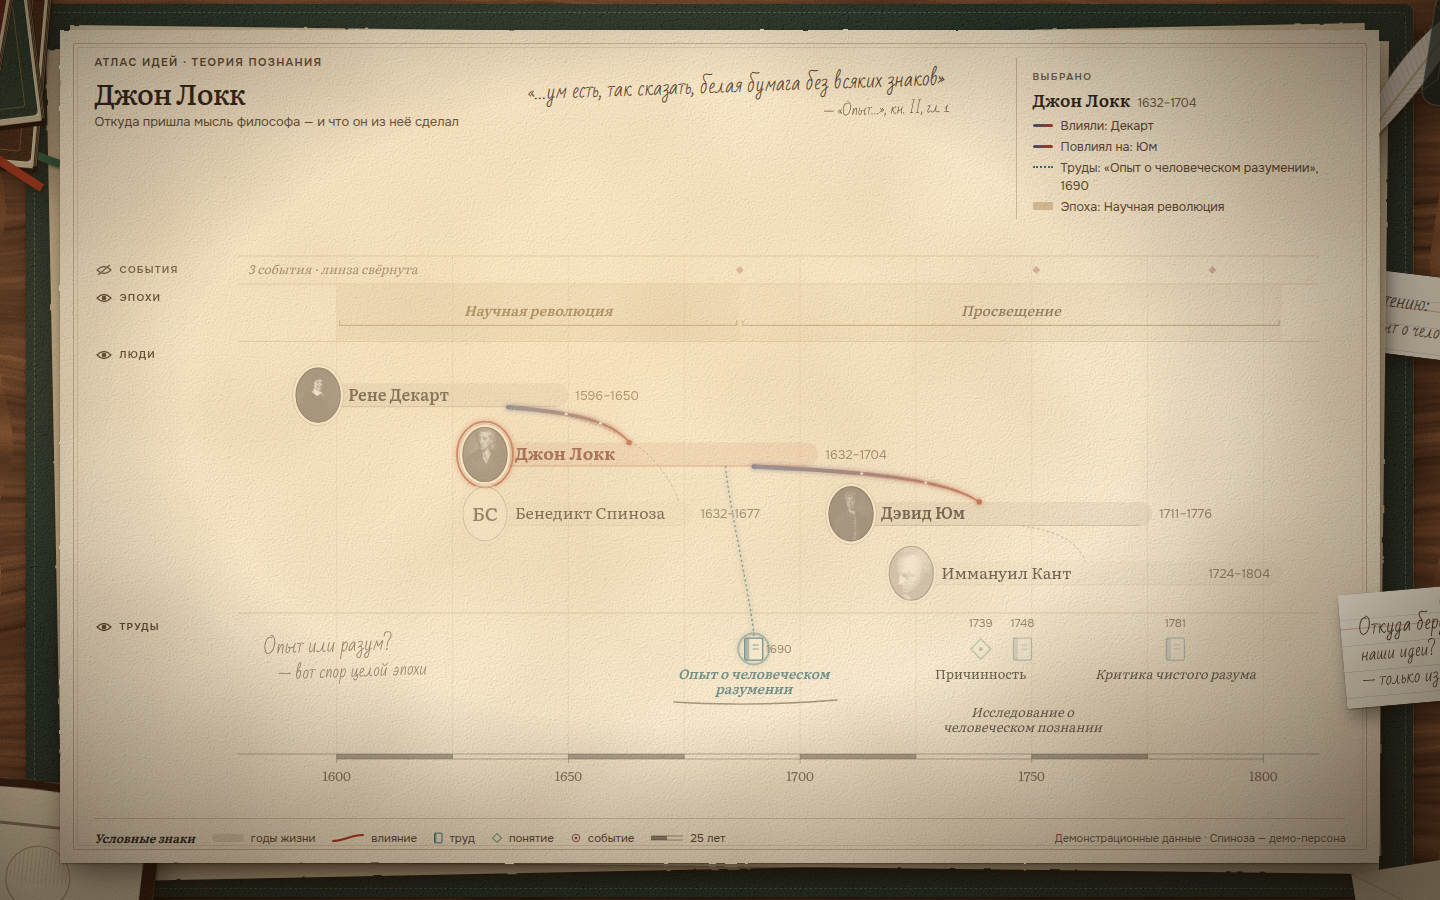
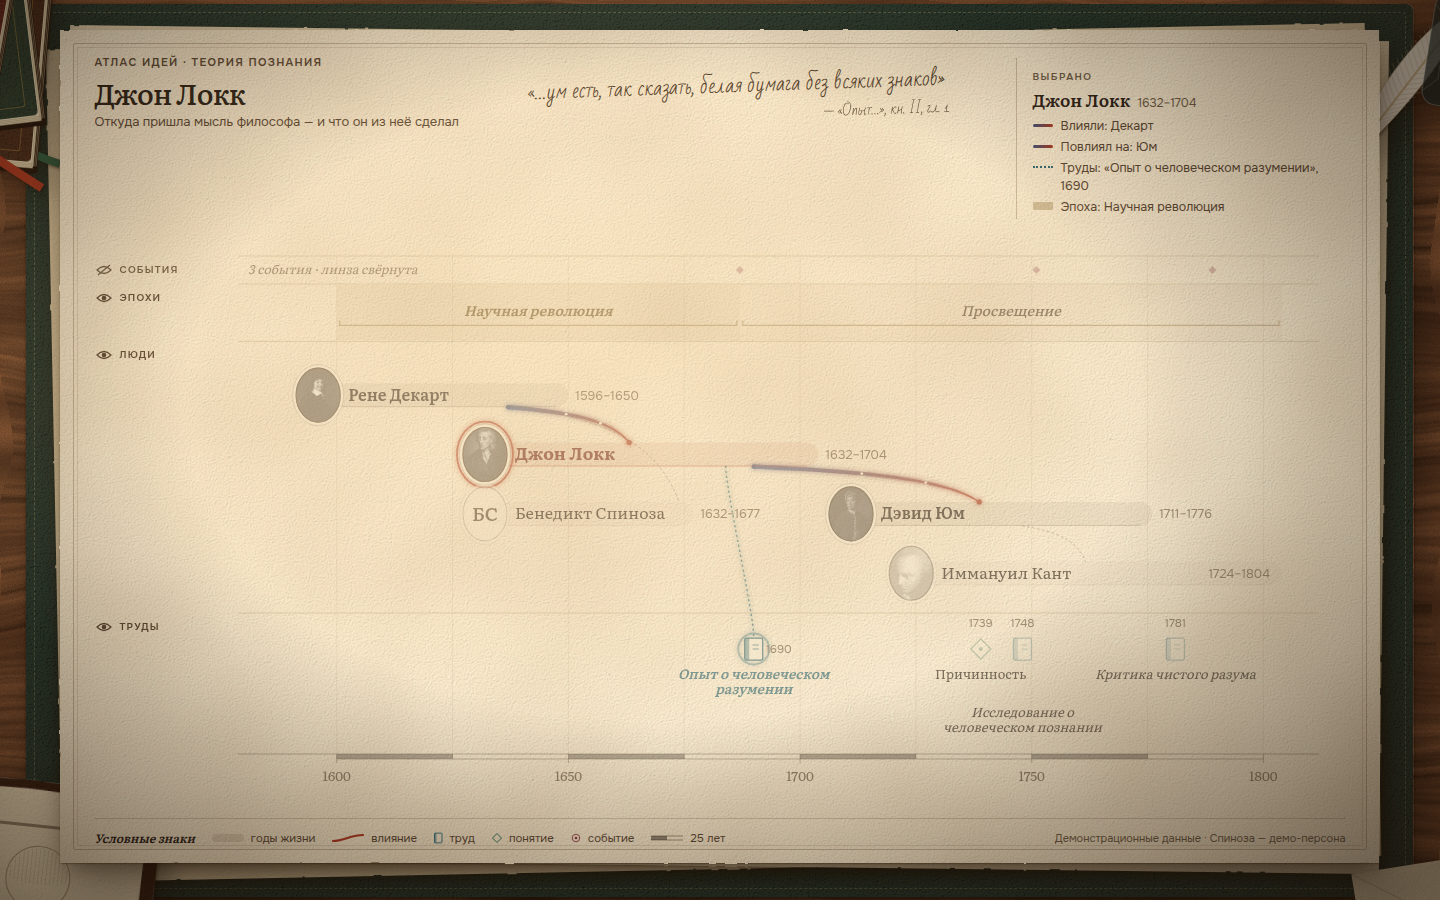
design(v3.1): убраны рукописные подписи с таймлайна
На графе только данные и их подписи; рукой — эпиграф в шапке и карточки на столе.

Changed region(s): [[0.9375, 0.6533, 1.0, 0.8089], [0.9375, 0.28, 1.0, 0.4044], [0.1875, 0.7156, 0.2812, 0.7467]]

diff --git a/docs/design/system/previews/graph-f02-lenses/desk-chart.js b/docs/design/system/previews/graph-f02-lenses/desk-chart.js
@@ -41,7 +41,7 @@
     {about:'hume',lines:['«Разум есть и должен быть','лишь рабом аффектов»'],cite:'«Трактат о человеческой природе»'},
     {about:'spinoza',lines:['«Порядок и связь идей те же,','что порядок и связь вещей»'],cite:'«Этика», ч. II, теор. 7'},
   ];
-  const theme=['Опыт или разум?','— вот спор целой эпохи'];  // тема листа, не про персону
+  const theme=['Опыт или разум?','— вот спор целой эпохи'];  // тема листа — только на карточке на столе, не на графе
   // карточки на столе: главный вопрос выбранного (редакторская выжимка, не цитата)
   const questions={
     descartes:['Что можно знать','несомненно?','— путь сомнения'],
@@ -196,7 +196,7 @@
     for(let y=1600;y<=1800;y+=25){const x=X(y),maj=y%50===0;L.axis.append(S('line',{x1:x,y1:ay,x2:x,y2:ay+(maj?9:5),stroke:'var(--graph-ink)','stroke-opacity':.55,'stroke-width':.8}));if(maj)L.axis.append(S('text',{x,y:ay+27,class:'axis-year'},y));}
 
     /* рукописные пометки: ищут свободное место у своего «якоря» */
-    placeNotes({R,bw,active});
+    placeNotes({R});
 
     renderGutter(bands,H);renderNote(R);renderDesk(R);
     window.deskLayout={bands,H,people:byId,mids,state,BODY,svgTop:top};
@@ -208,23 +208,11 @@
     if(!sel)return null;
     return notes.find(n=>n.about.endsWith('-'+sel))||notes.find(n=>n.about===sel)||notes.find(n=>n.about.startsWith(sel+'-'))||null;
   }
-  // Пометки на листе. Цитата выбранного — в постоянном месте на поле шапки: не зависит от плотности
-  // графа и не тянет стрелок через карту. Тема листа — в свободном месте страты трудов; места нет — не рисуется.
-  function placeNotes({R,bw,active}){
-    const L=svg.lastChild;
+  // На самом таймлайне рукописных пометок нет: карта только показывает данные.
+  // Цитата выбранного — эпиграф на поле шапки, вне графа.
+  function placeNotes({R}){
     const ep=document.querySelector('.epigraph'),n=R?noteFor(state.sel):null;
     if(ep){ep.innerHTML=n?`<blockquote>${n.lines.join(' ')}</blockquote><figcaption>— ${n.cite}</figcaption>`:'';ep.hidden=!n;}
-    if(!bw.collapsed){
-      const pad=(r,m)=>({x:r.x-m,y:r.y-m,w:r.width+2*m,h:r.height+2*m}),boxes=[];
-      svg.querySelectorAll('text,.work-mark,.concept-mark').forEach(t=>{const b=t.getBBox();if(b.width)boxes.push(pad(b,6));});
-      const g=S('g',{class:'notes-layer'});L.append(g);
-      theme.forEach((ln,i)=>g.append(S('text',{x:i*14,y:i*26,class:'hand','font-size':19-i*2},ln)));
-      const bb=g.getBBox(),w=bb.width+12,h=bb.height+10;let spot=null;
-      for(let x=PLOT_L+14;x+w<PLOT_R&&!spot;x+=16)for(let y=bw.top+8;y+h<bw.bot-4&&!spot;y+=10){
-        const box={x,y,w,h};if(!boxes.some(b=>box.x<b.x+b.w&&b.x<box.x+box.w&&box.y<b.y+b.h&&b.y<box.y+box.h))spot=box;}
-      if(spot)g.setAttribute('transform',`translate(${spot.x+6-bb.x} ${spot.y+5-bb.y}) rotate(-2 ${bb.x+bb.width/2} ${bb.y+bb.height/2})`);else g.remove();
-    }
-    if(active&&active.titleBox){const bb=active.titleBox.getBBox();L.append(S('path',{d:`M${bb.x-4} ${bb.y+bb.height+4} Q${bb.x+bb.width/2} ${bb.y+bb.height+9} ${bb.x+bb.width+6} ${bb.y+bb.height+2}`,class:'hand-stroke'}));}
   }
   // карточки на столе следуют за выбором: вопрос философа и его труды «к чтению»
   function renderDesk(R){

diff --git a/docs/design/system/previews/graph-f02-lenses/README.md b/docs/design/system/previews/graph-f02-lenses/README.md
@@ -28,7 +28,8 @@
 клик по полю или Esc — снять выбор. Светлая тема — день, тёмная — вечер при лампе.
 
 Всё на листе строится из данных и следует за выбором: ленты, нити, труды, эпоха, сноска «Выбрано»,
-заголовок, цитата-эпиграф на поле шапки (`notes`), карточки на столе (`questions`, труды). Нет данных —
+заголовок, цитата-эпиграф на поле шапки (`notes`), карточки на столе (`questions`, труды). На самом
+таймлайне рукописных пометок нет — только данные. Нет данных —
 нет пометки. Граф рисуется в реальных пикселях листа и пересчитывается при изменении окна.
 
 Файлы: `desk.html` · `desk.css` · `desk-chart.js` (граф от состояния) · `desk.js` (предметы) ·
